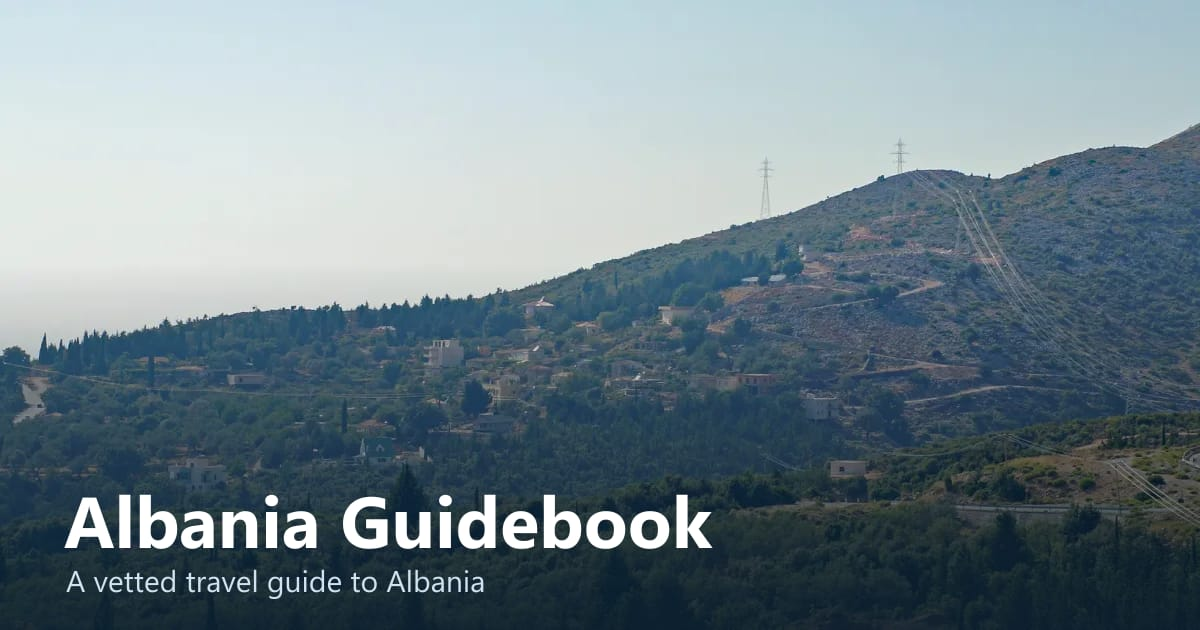
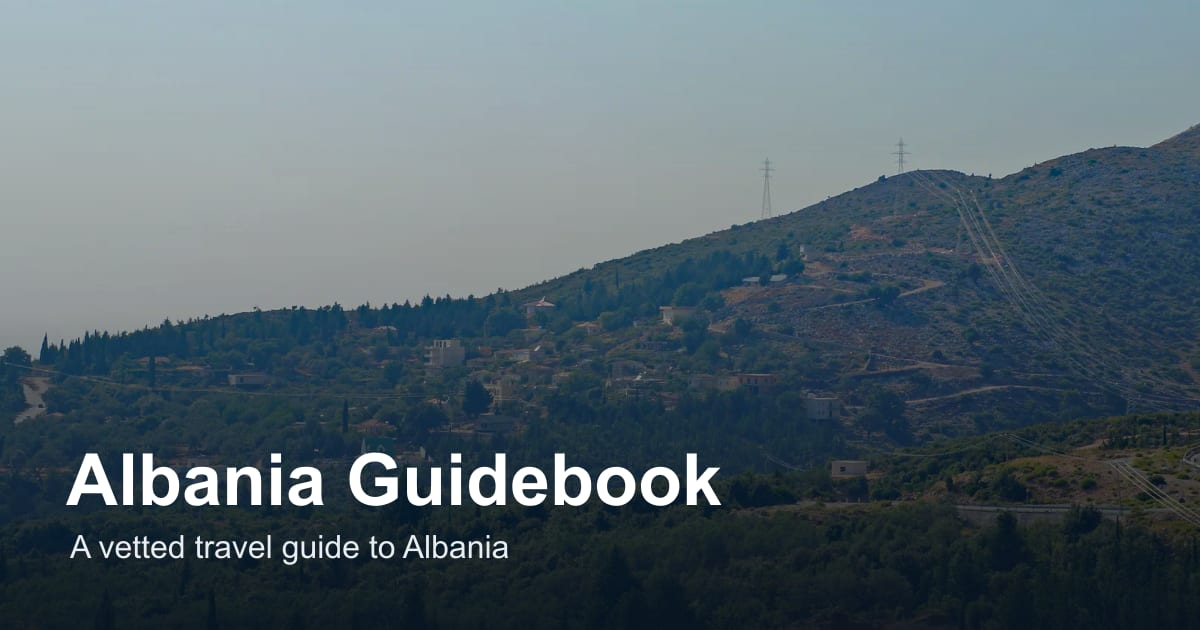
fix(hero): refresh homepage previews
Keep the existing homepage image rotation and deploy refreshed branded previews plus HTTPS routing for consistent live rendering.

diff --git a/worker/index.ts b/worker/index.ts
@@ -28,6 +28,19 @@ interface Env {
 const DATA = partnersData as unknown as PartnersMap;
 const SAFE_FALLBACK = '/';
 
+function httpsRedirect(url: URL): Response | null {
+  if (url.protocol !== 'http:') return null;
+  const target = new URL(url.href);
+  target.protocol = 'https:';
+  return new Response(null, {
+    status: 301,
+    headers: {
+      Location: target.href,
+      'X-Content-Type-Options': 'nosniff',
+    },
+  });
+}
+
 /** Фолбэк обязан быть относительным путём своего сайта (анти open-redirect). */
 function safeFallback(origin: string): string {
   const fallback = DATA.fallback ?? SAFE_FALLBACK;
@@ -90,6 +103,9 @@ function handleGo(url: URL): Response {
 export default {
   fetch(request: Request, env: Env): Response | Promise<Response> {
     const url = new URL(request.url);
+    const redirect = httpsRedirect(url);
+    if (redirect) return redirect;
+
     if (request.method === 'GET' && url.pathname.startsWith('/go/')) {
       return handleGo(url);
     }

diff --git a/PROGRESS.md b/PROGRESS.md
@@ -232,3 +232,8 @@
 ## Известные «красные», которые не дефекты
 - `npm run qa` NO-GO — **только** `check-links` на ссылки в ненаписанные статьи (NO-CONTENT).
 - perf главной 79 — hero-кадр (LCP); оптимизировать при работе над hero-ротацией.
+
+### 2026-06-25 — Hero/OG/HTTPS
+- Проверены hero главной и ротация: албанская кросс-фейд ротация уже меняет кадры в открытой вкладке каждые ~7 секунд; дополнительных изменений в механике не потребовалось.
+- Обновлены брендированный `og-default.jpg`, `og:image:secure_url` и HTTP→HTTPS 301 в Worker.
+- Проверки: `npm run check`, `npm run build`, `npm test`, `npm run lint` — зелёные.